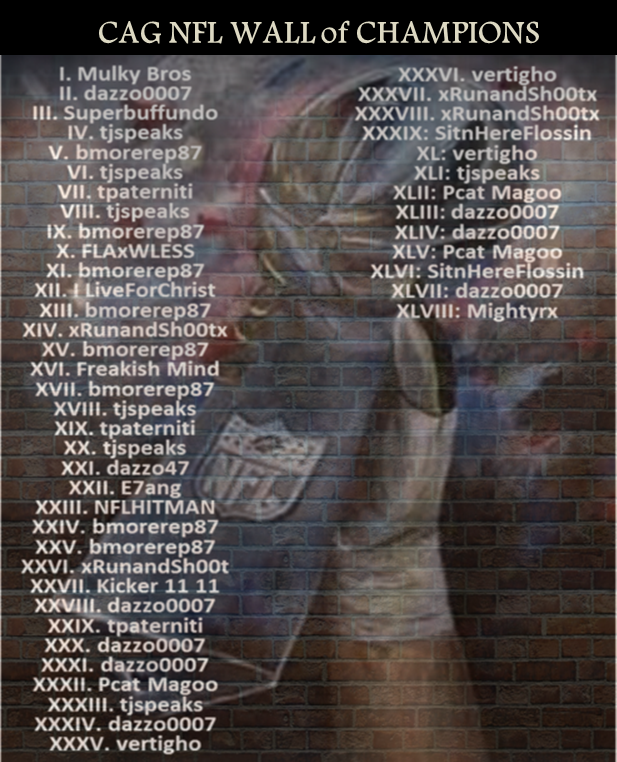
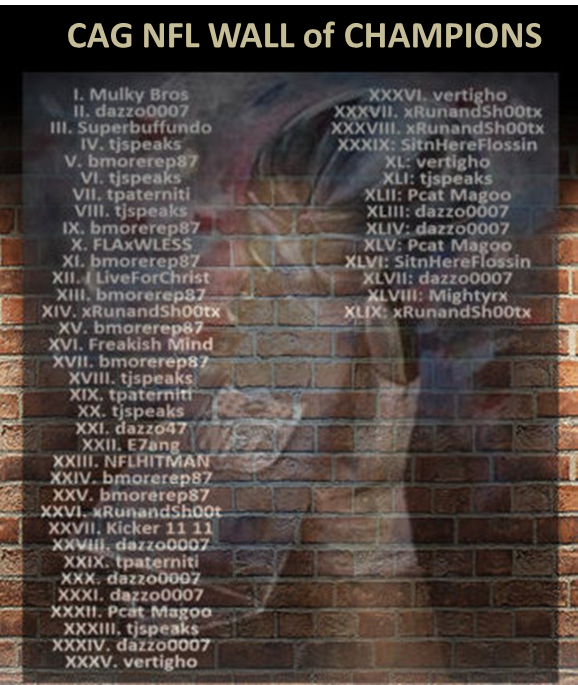
Updated the CAG Champion and added the current champion to the home page

diff --git a/app/templates/main/index.html b/app/templates/main/index.html
@@ -54,6 +54,13 @@
         Season 50
       </h1>
   </div>
+  <br><br>
+  <div class="panel-heading divbgtext">
+    <h1 class="divbgtext">Season 49 Champion</h1>
+    <h3 class="divbg divbgtext text-center">
+        xRun and Sh00tx
+    </h3>
+  </div>
 </div>
 <script>
 $("#champions-wall").click(function() {
